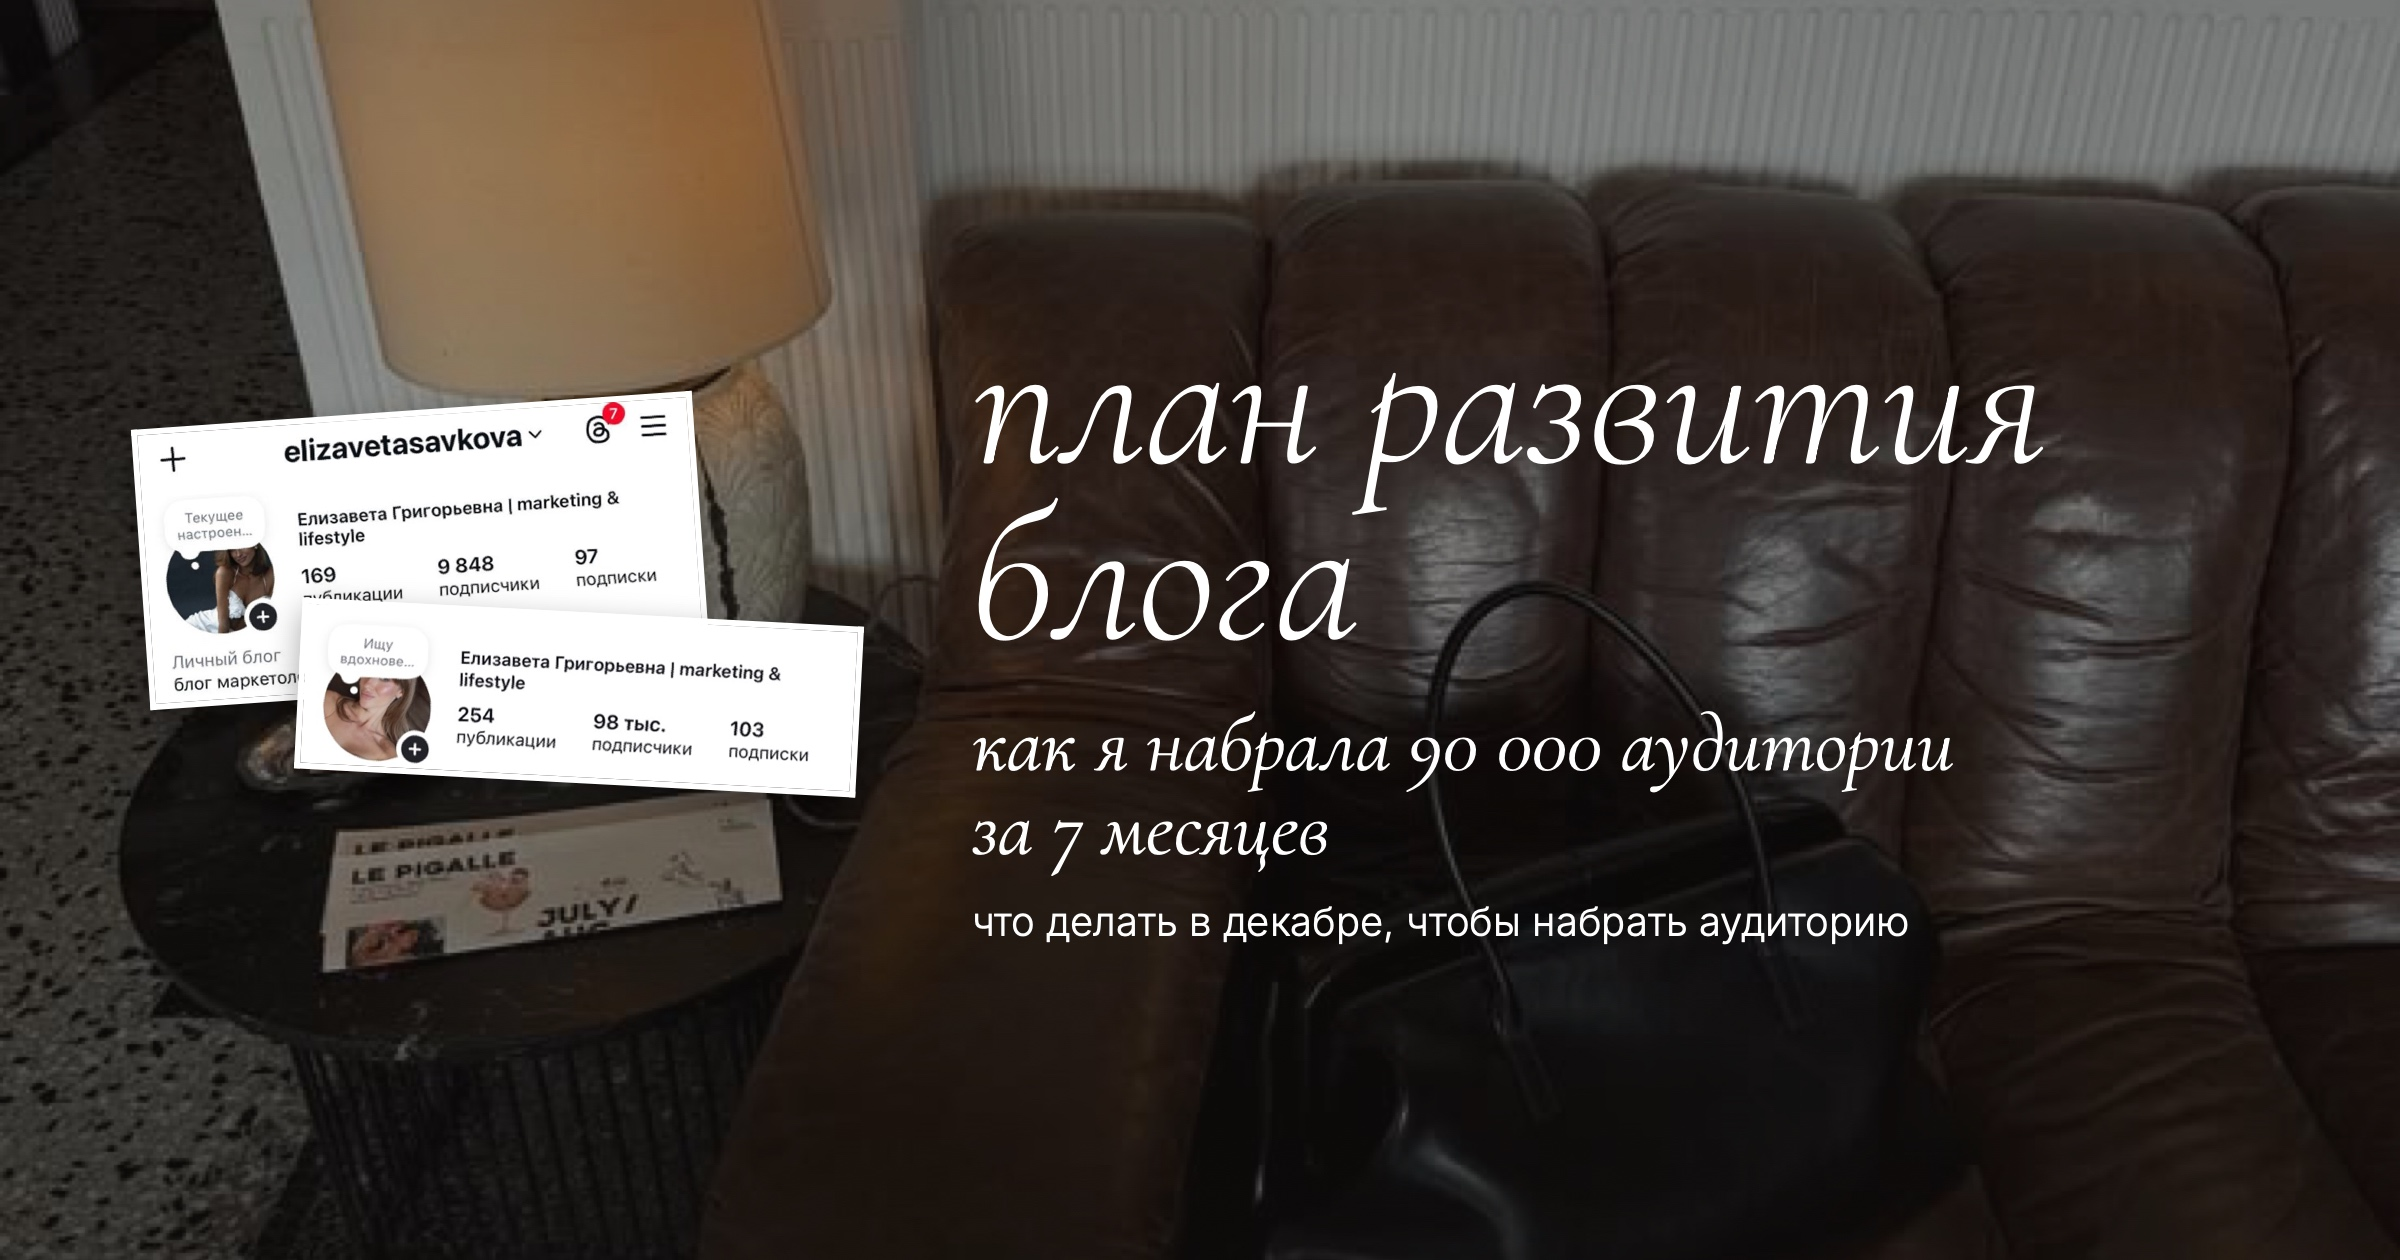
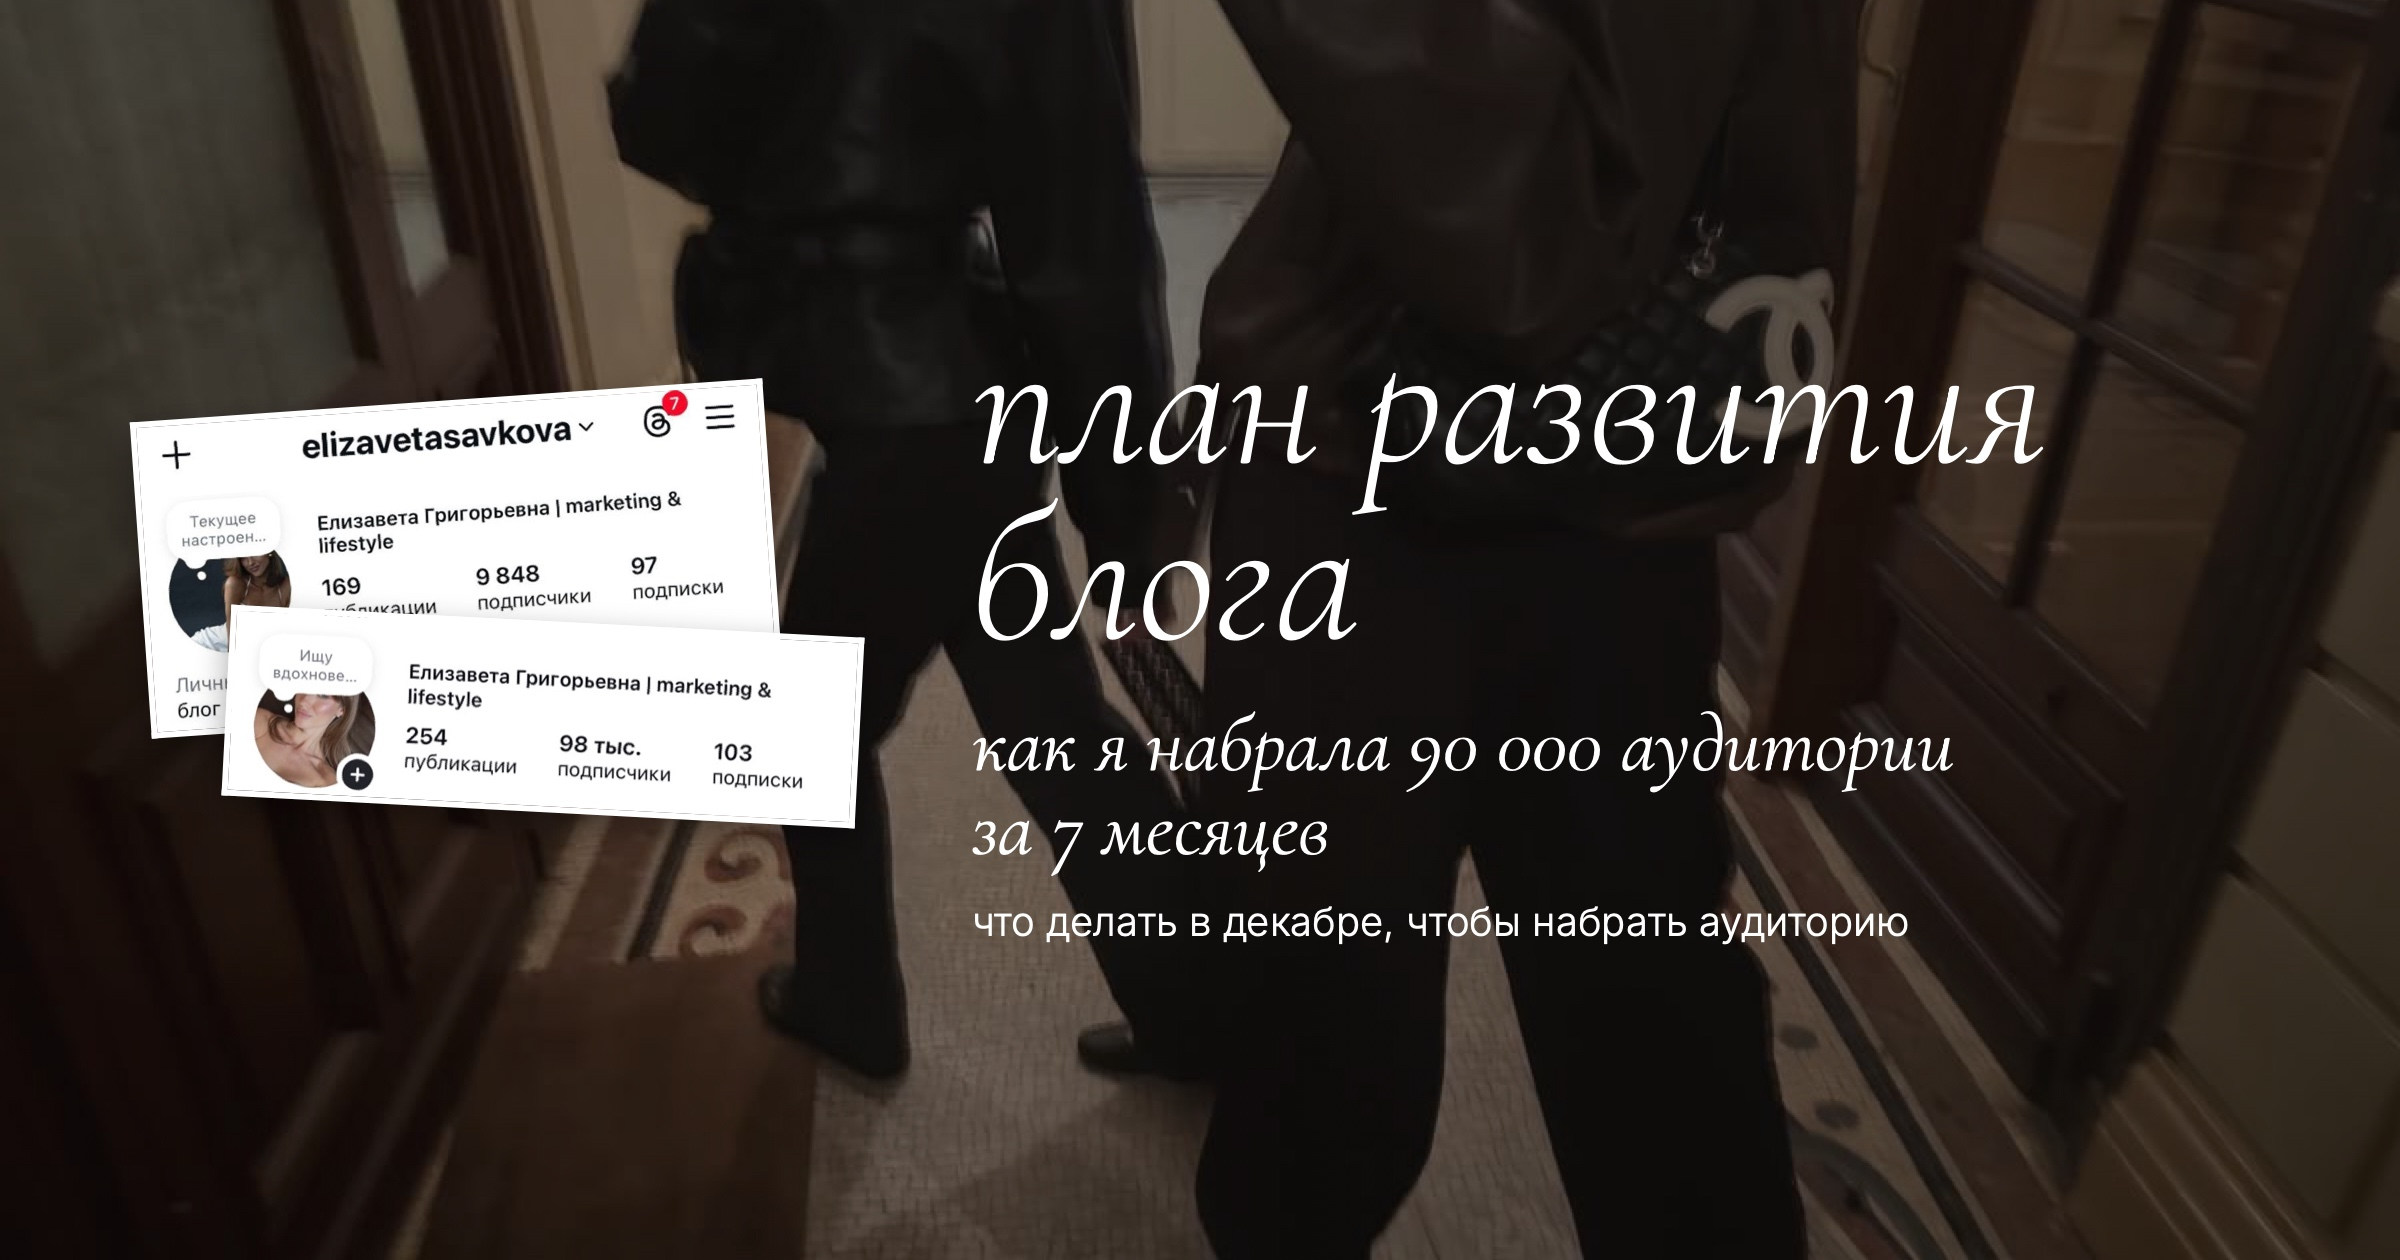
Горизонтальная обложка: скрины слева, текст справа; новое фото

diff --git a/index.html b/index.html
@@ -47,17 +47,18 @@ b{font-weight:500}
 .muted{color:var(--muted)}
 
 /* обложка */
-.cover{position:relative;width:100%;min-height:clamp(540px,72svh,680px);display:flex;overflow:hidden;background:#2b2724}
-.cover-img{position:absolute;inset:0;width:100%;height:100%;max-width:100%;object-fit:cover;object-position:50% 50%}
-.cover::after{content:"";position:absolute;inset:0;background:linear-gradient(180deg,rgba(20,18,16,.42) 0%,rgba(20,18,16,.38) 50%,rgba(20,18,16,.62) 100%)}
-.cover-inner{position:relative;z-index:1;flex:1;display:flex;flex-direction:column;justify-content:center;align-items:center;gap:14px;max-width:760px;margin:0 auto;padding-left:max(20px,env(safe-area-inset-left,0px));padding-right:max(20px,env(safe-area-inset-right,0px));padding-block:40px;color:#fff;text-align:center}
-.cover-inner h1{font-size:clamp(3.1rem,12vw,5.6rem);color:#fff}
-.cover-inner p{font-size:clamp(.82rem,2.8vw,1rem);font-weight:300;color:#fff}
-.cover-inner p.sub{font-family:var(--script);font-style:italic;font-weight:400;font-size:clamp(1.55rem,5.4vw,2.4rem);line-height:1.05;text-wrap:balance}
-.cover-shots{position:relative;width:clamp(210px,46vw,290px);height:clamp(132px,26vw,176px);margin-bottom:12px;pointer-events:none}
-.cover-shots img{position:absolute;width:78%;max-width:100%;display:block;border:3px solid #fff;box-shadow:0 6px 18px rgba(0,0,0,.35)}
+.cover{position:relative;width:100%;min-height:clamp(290px,50vw,520px);display:flex;overflow:hidden;background:#2b2724}
+.cover-img{position:absolute;inset:0;width:100%;height:100%;max-width:100%;object-fit:cover;object-position:50% 45%}
+.cover::after{content:"";position:absolute;inset:0;background:linear-gradient(90deg,rgba(20,18,16,.38) 0%,rgba(20,18,16,.5) 45%,rgba(20,18,16,.62) 100%)}
+.cover-inner{position:relative;z-index:1;flex:1;display:flex;flex-direction:row;justify-content:center;align-items:center;gap:clamp(14px,4vw,48px);max-width:900px;margin:0 auto;padding-left:max(16px,env(safe-area-inset-left,0px));padding-right:max(16px,env(safe-area-inset-right,0px));padding-block:24px;color:#fff;text-align:left}
+.cover-text{flex:1 1 auto;min-width:0;max-width:480px;display:flex;flex-direction:column;gap:clamp(6px,1.4vw,14px)}
+.cover-inner h1{font-size:clamp(1.95rem,7.6vw,5rem);line-height:.92;color:#fff}
+.cover-inner p{font-size:clamp(.68rem,2.4vw,1rem);font-weight:300;color:#fff;line-height:1.35}
+.cover-inner p.sub{font-family:var(--script);font-style:italic;font-weight:400;font-size:clamp(1rem,3.8vw,2.1rem);line-height:1.08;text-wrap:balance}
+.cover-shots{position:relative;flex:none;width:clamp(140px,38vw,300px);height:clamp(92px,24vw,190px);pointer-events:none}
+.cover-shots img{position:absolute;width:88%;max-width:100%;display:block;border:2px solid #fff;box-shadow:0 6px 18px rgba(0,0,0,.35)}
 .cover-shots .s1{left:0;top:0;transform:rotate(-4deg)}
-.cover-shots .s2{left:22%;top:46%;transform:rotate(3deg)}
+.cover-shots .s2{left:12%;top:48%;transform:rotate(3deg)}
 
 /* вступление */
 .hero{display:flex;flex-direction:column;gap:26px;align-items:center;text-align:center}
@@ -126,9 +127,11 @@ footer{padding-top:40px;font-size:.85rem;color:var(--muted);text-align:center}
       <img class="s1" src="img/before.jpg" alt="">
       <img class="s2" src="img/after.jpg" alt="">
     </div>
-    <h1 class="script">план развития блога</h1>
-    <p class="sub">как я набрала 90&nbsp;000 аудитории за 7&nbsp;месяцев</p>
-    <p>что делать в декабре, чтобы набрать аудиторию</p>
+    <div class="cover-text">
+      <h1 class="script">план развития блога</h1>
+      <p class="sub">как я набрала 90&nbsp;000 аудитории за 7&nbsp;месяцев</p>
+      <p>что делать в декабре, чтобы набрать аудиторию</p>
+    </div>
   </div>
 </div>
 
